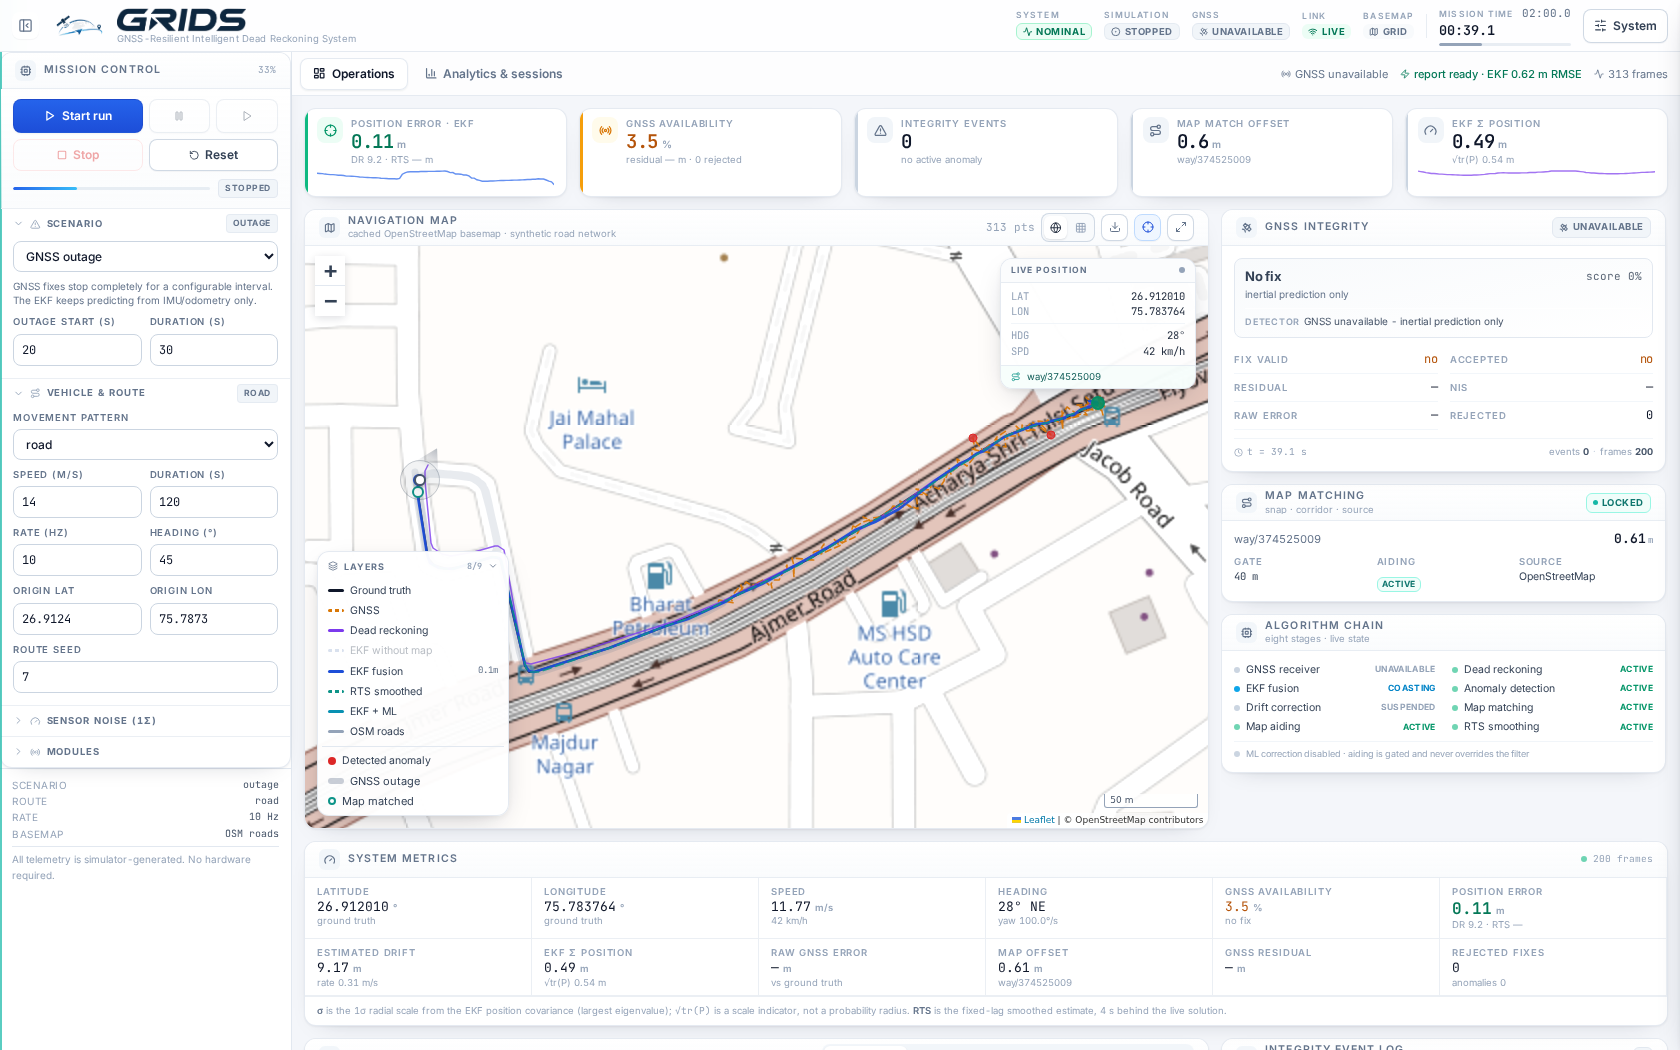
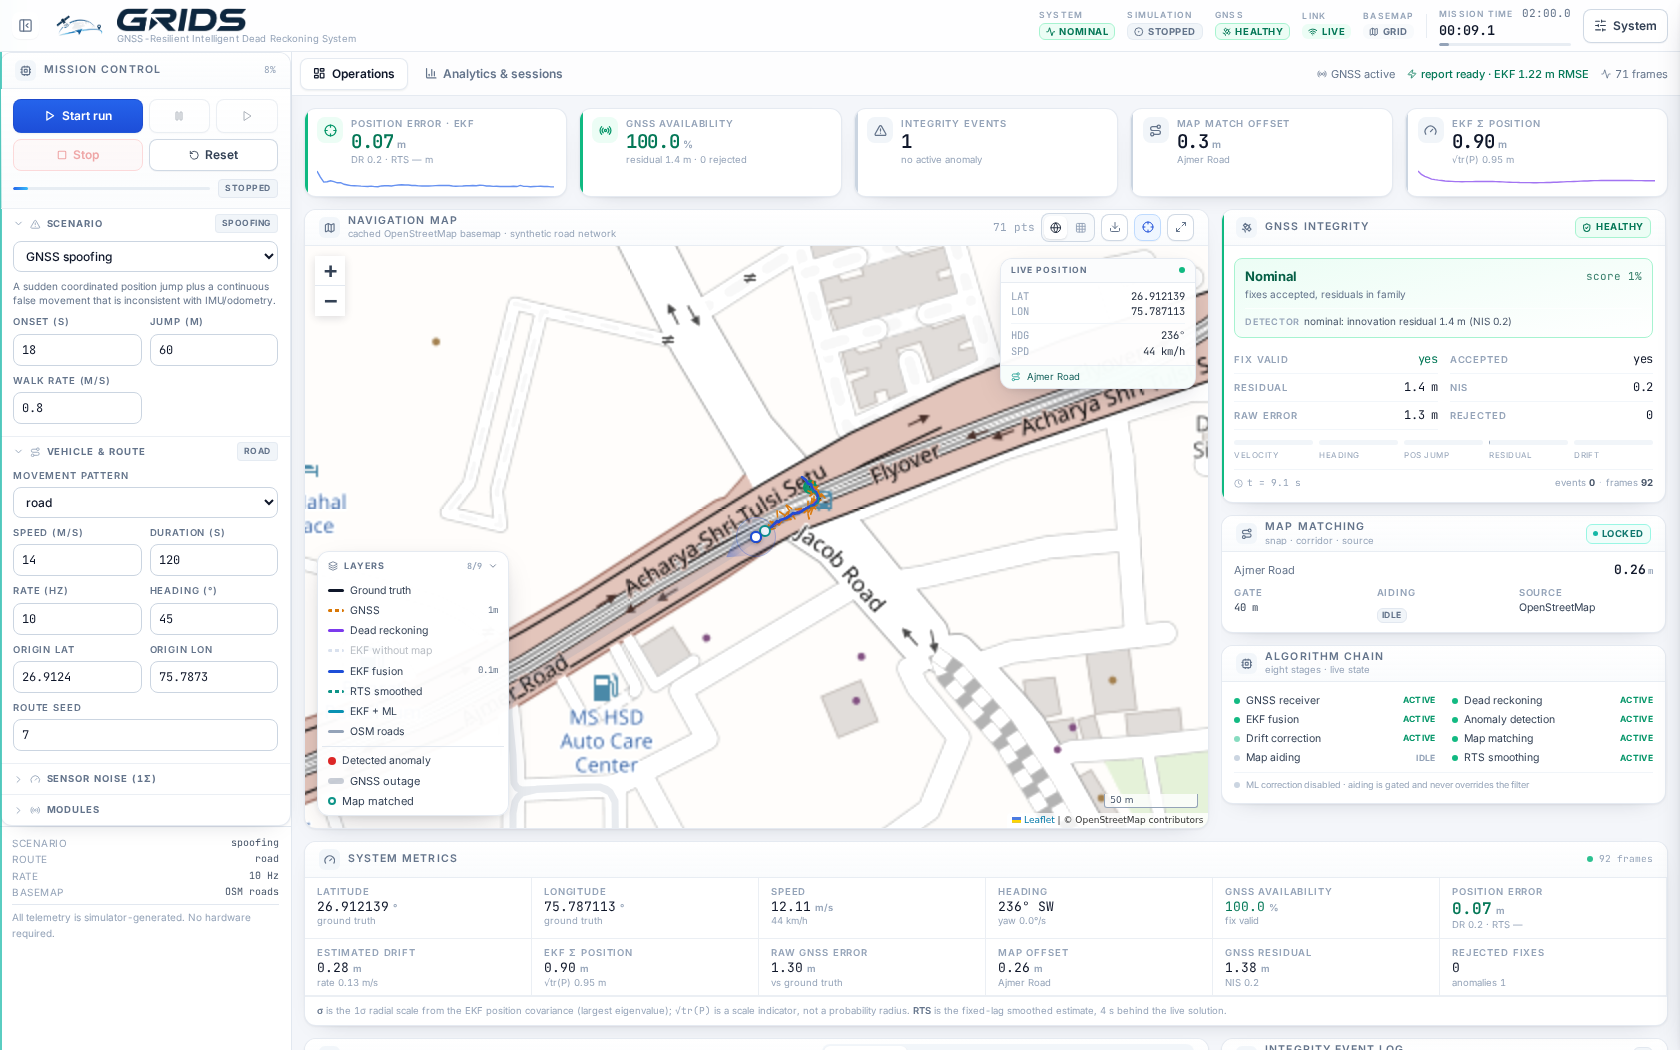
feat(api): serve the built dashboard on the API port
The API port is now self-sufficient: when frontend/dist exists, the backend mounts
it (after every API/docs route, html=False so unknown paths stay 404s) and /dashboard
serves the SPA on the same origin, so relative /api calls need no proxy. Root JSON
index advertises the dashboard path. README documents the single-port option.

Verified: 103 backend tests, 19/19 E2E, and a live run driven end-to-end from
http://localhost:8000/dashboard with zero 4xx and zero page errors.

diff --git a/backend/app/main.py b/backend/app/main.py
@@ -7,8 +7,12 @@ from __future__ import annotations
 
 from contextlib import asynccontextmanager
 
+from pathlib import Path
+
 from fastapi import FastAPI
 from fastapi.middleware.cors import CORSMiddleware
+from fastapi.responses import FileResponse, JSONResponse
+from fastapi.staticfiles import StaticFiles
 
 from app.api.router import api_router
 from app.config import settings
@@ -54,6 +58,31 @@ app.add_middleware(
 
 app.include_router(api_router, prefix=settings.api_prefix)
 
+# ---------------------------------------------------------------------------
+# Dashboard hosting.
+#
+# The API is the canonical port, so if a production bundle has been built
+# (`npm run build` -> frontend/dist) it is served from here as well: one origin,
+# no proxy required, relative /api calls keep working. During development the
+# Vite dev server on :5173 proxies /api to this process instead.
+# ---------------------------------------------------------------------------
+_DIST = Path(__file__).resolve().parents[2] / "frontend" / "dist"
+_INDEX = _DIST / "index.html"
+
+@app.get("/dashboard", include_in_schema=False)
+def dashboard() -> FileResponse:
+    """Serve the built single-page app (falls back to a hint if not built)."""
+    if _INDEX.is_file():
+        return FileResponse(_INDEX)
+    return JSONResponse(
+        status_code=404,
+        content={
+            "error": "dashboard bundle not found",
+            "build": "cd frontend && npm run build",
+            "dev_server": "http://localhost:5173",
+        },
+    )
+
 
 @app.get("/", tags=["system"])
 def root() -> dict:
@@ -63,5 +92,13 @@ def root() -> dict:
         "version": settings.version,
         "docs": "/docs",
         "api": settings.api_prefix,
+        "dashboard": "/dashboard" if _INDEX.is_file() else None,
         "data_source": "simulated",
     }
+
+
+# Registered last on purpose: a mount on "/" is matched in definition order, so
+# it must come after every API, docs and page route. html=False keeps unknown
+# paths a plain 404 instead of silently answering with the SPA shell.
+if _DIST.is_dir():
+    app.mount("/", StaticFiles(directory=_DIST, html=False), name="dashboard-assets")

diff --git a/README.md b/README.md
@@ -640,6 +640,18 @@ It drives the real dashboard: load, start/pause/resume, all five chart tabs, map
 layers, the system drawer, stop-and-score, the analytics page, loading a stored
 session, and a spoofing run — failing on any JavaScript error.
 
+If a production bundle exists (`cd frontend && npm run build`), the backend also
+serves the dashboard itself, so a single port is enough:
+
+```bash
+cd backend && python3 -m uvicorn app.main:app --host 0.0.0.0 --port 8000
+# dashboard → http://localhost:8000/dashboard     (SPA + static assets, same origin)
+# API docs  → http://localhost:8000/docs
+# JSON index → http://localhost:8000/
+```
+
+Relative `/api` calls work either way, so nothing needs configuring.
+
 Regenerate the documentation screenshots from the live app (same ports):
 
 ```bash
